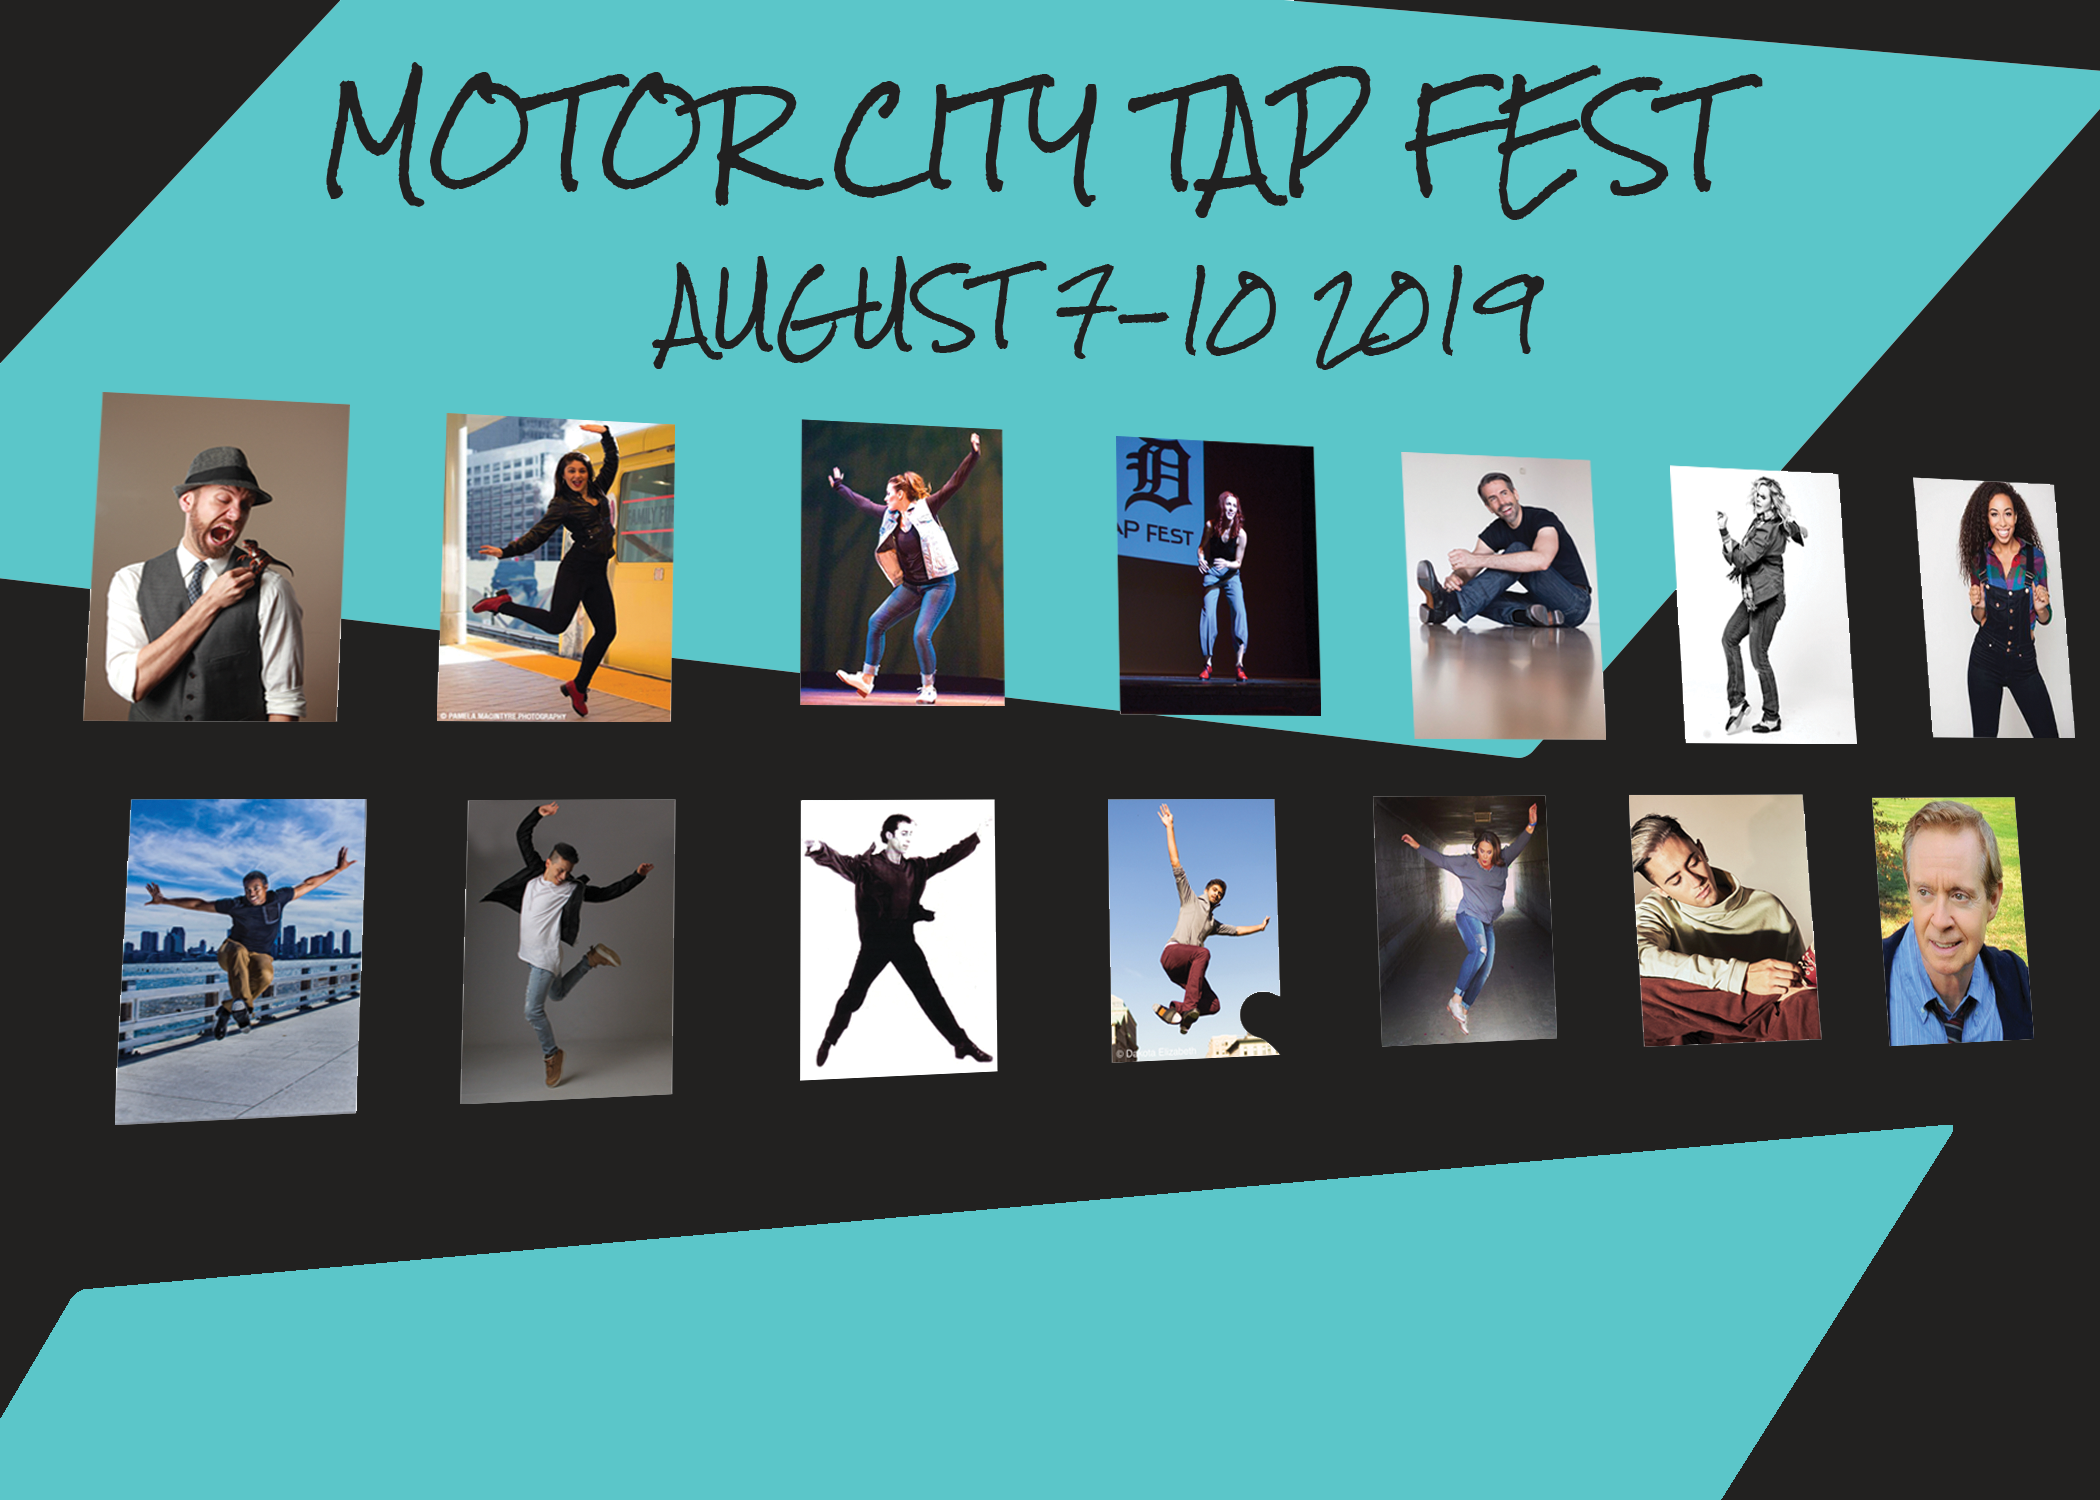
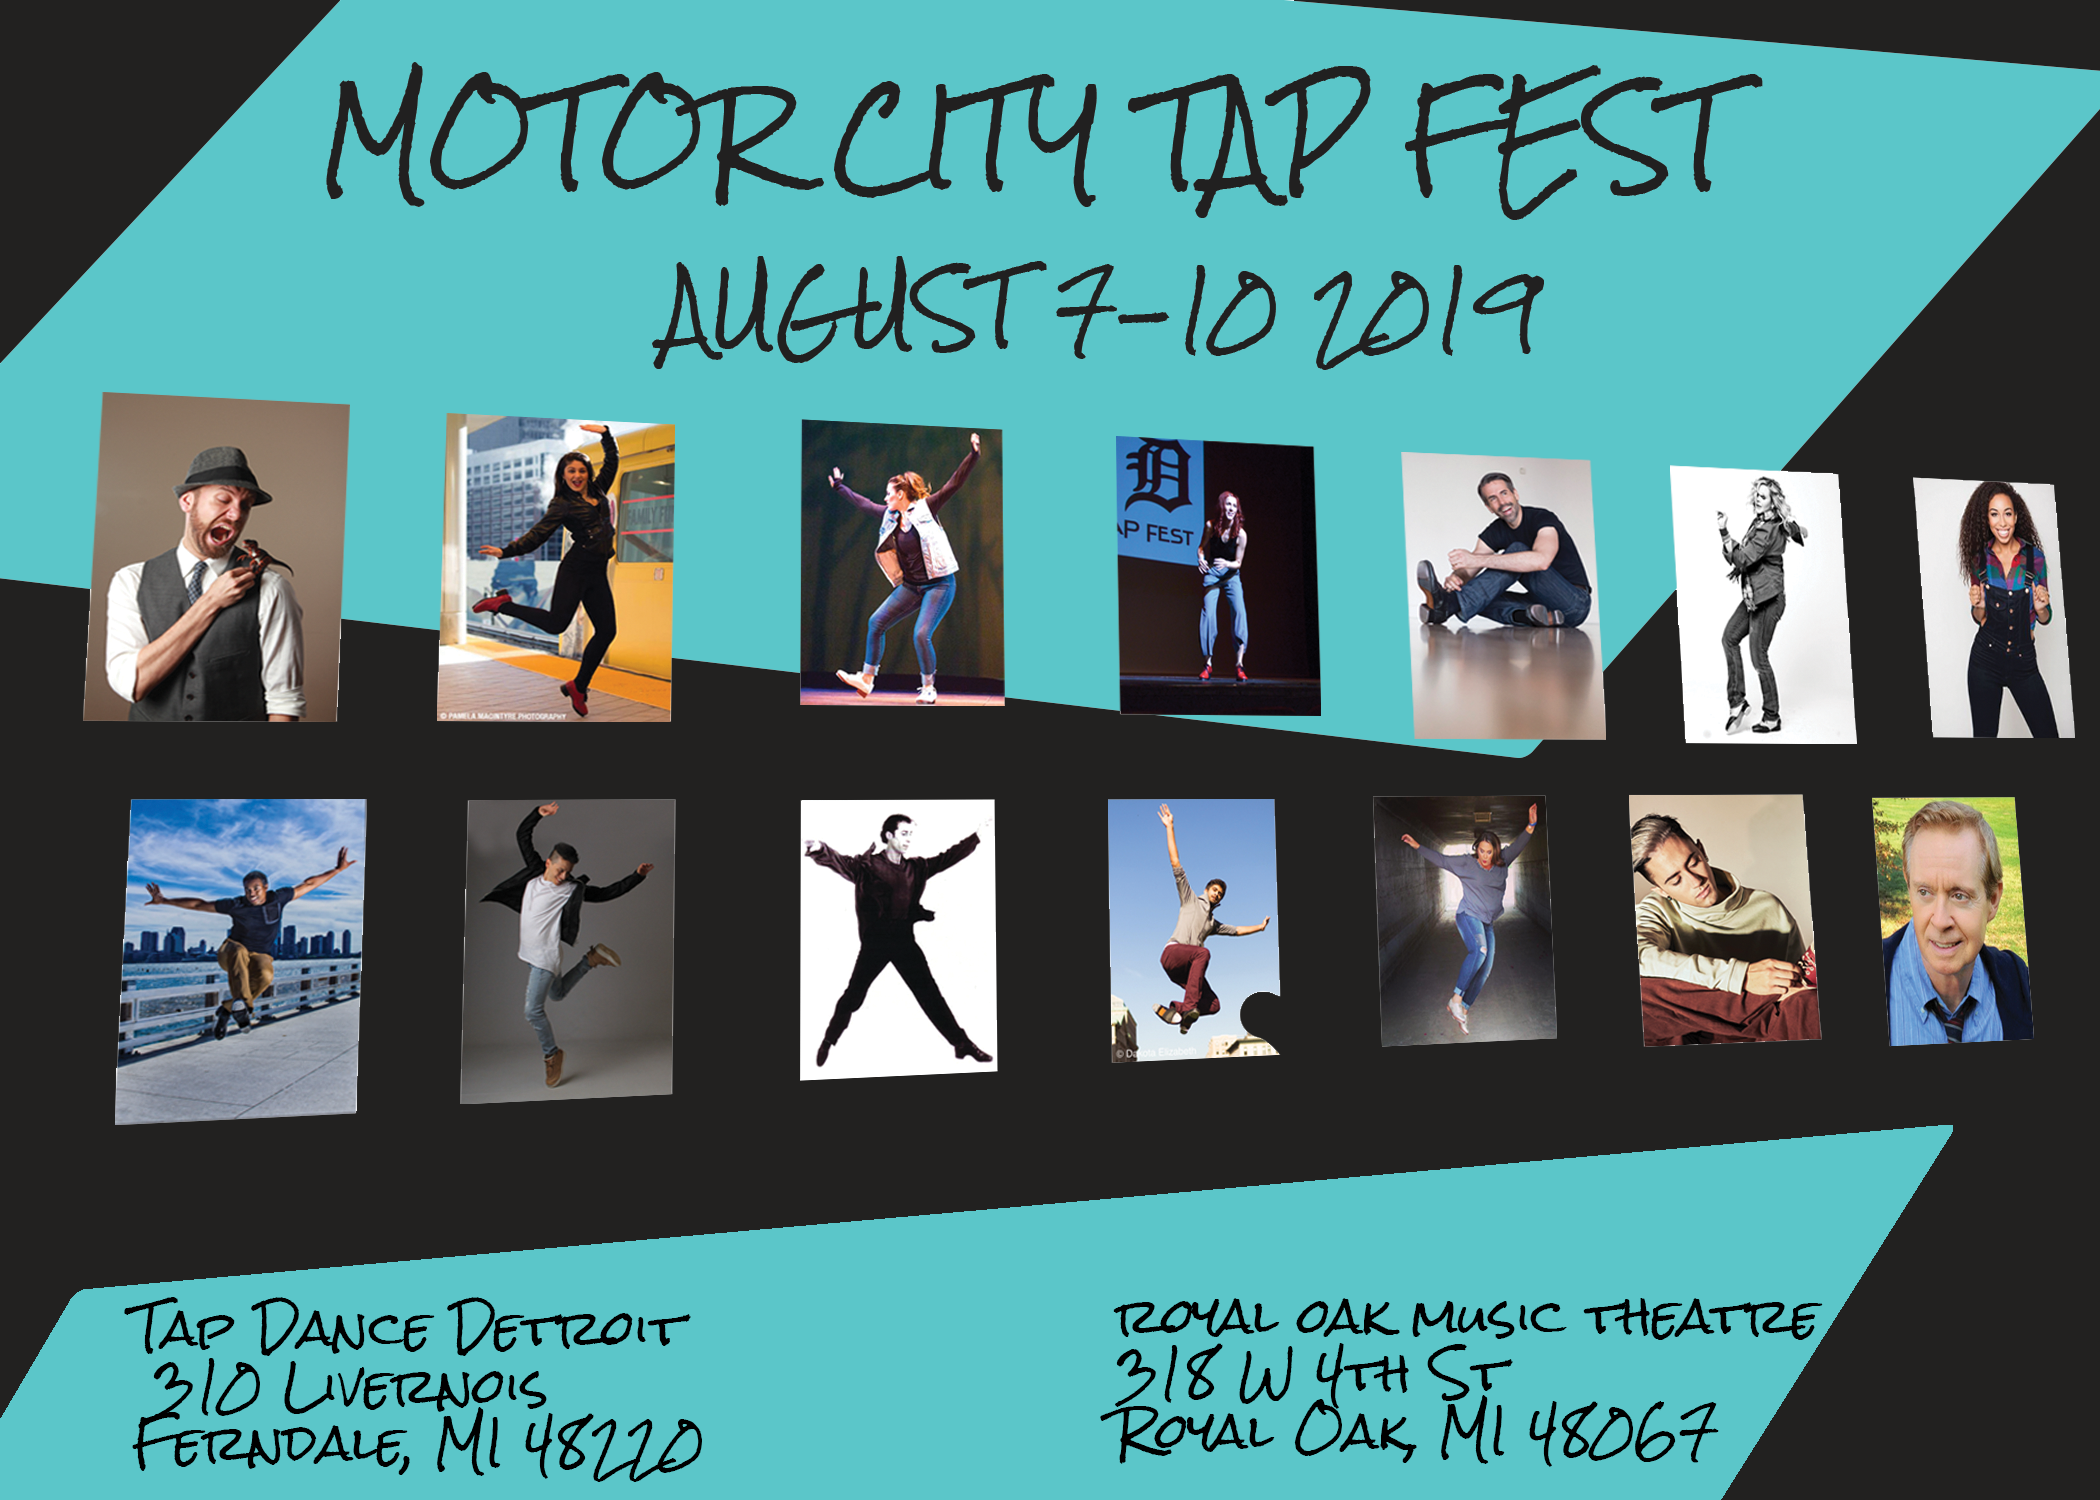
added postcard home page

Changed region(s): [[0.5262, 0.8587, 0.8667, 0.9813], [0.0619, 0.8587, 0.3405, 1.0]]

diff --git a/src/components/Home.vue b/src/components/Home.vue
@@ -5,7 +5,9 @@
       <b-row></b-row>
       <b-row class="justify-content-md-center">
         <b-col lg="12">
+  
         <b-img src="./static/mctf-postcard-2019.png" fluid-grow/>
+        
         </b-col>
       </b-row>
       <b-row class="justify-content-md-center">
@@ -36,7 +38,7 @@
           <div>
           
   <!-- Using value -->
-  <b-btn class="buttons" variant="success" v-bind:to="'schedreg'">VIEW SCHEDULE<br/> & REGISTER!</b-btn>
+  <b-btn class="buttons" variant="success" href="https://www.axs.com/events/371283/motor-city-soles-tickets">BUY TICKETS!</b-btn>
 
   <!-- the modal -->
   <!-- <b-modal id="myModal">

diff --git a/src/main.js b/src/main.js
@@ -6,6 +6,7 @@ import App from './App'
 import router from './router'
 import 'bootstrap/dist/css/bootstrap.min.css'
 import 'bootstrap-vue/dist/bootstrap-vue.css'
+
 // import Client from 'shopify-buy'
 
 // import VueImg from 'v-img'
